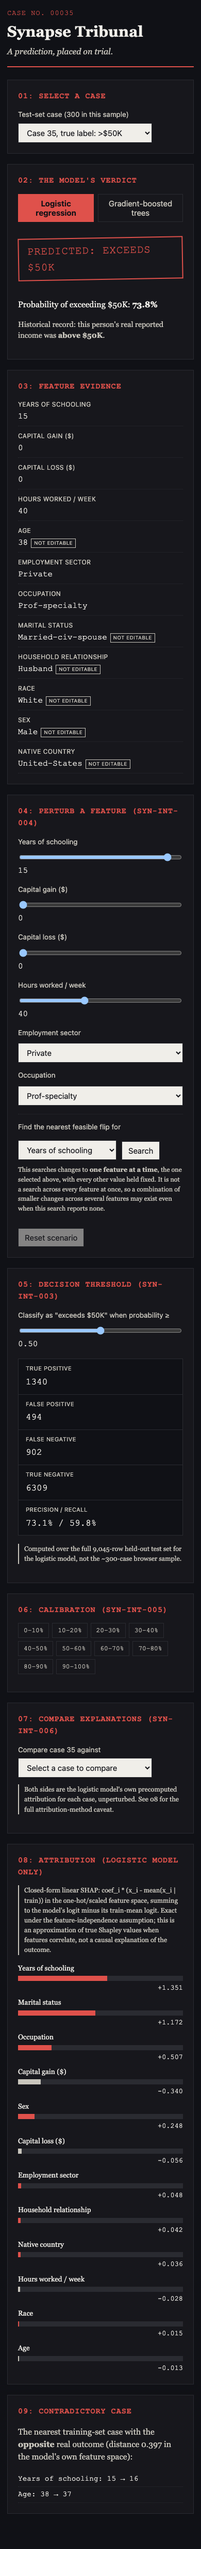
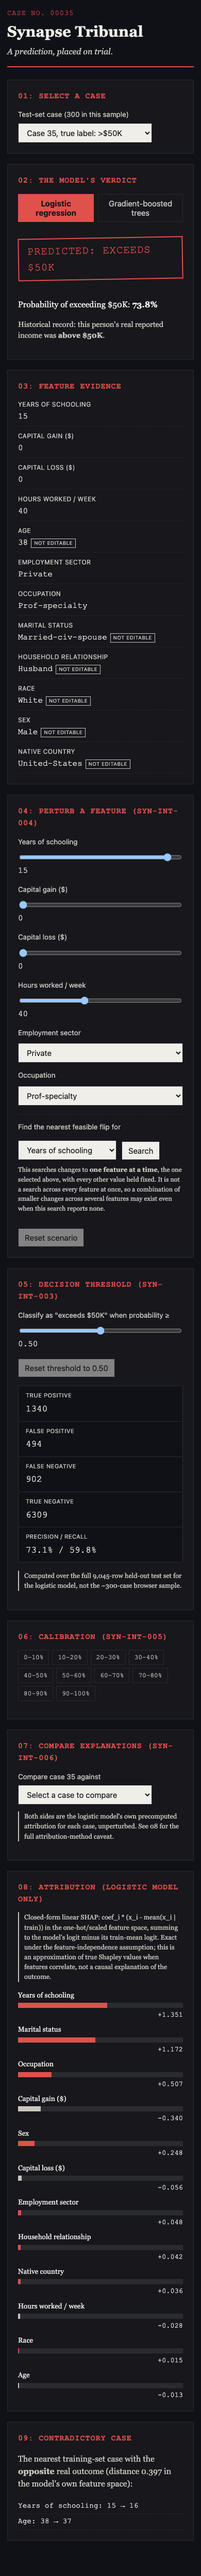
Fix stale flip result on threshold change; add threshold reset; Brier/ROC reconciliation tests
A follow-up advisor pass caught two real bugs and a missing Atlas
validation requirement:

- Changing the threshold left a stale flip-search result on screen
  computed against the OLD threshold (e.g. 'flips at 73.8%' still
  showing after moving the threshold to 90%), misrepresenting the
  current state. Fixed: handleThresholdChange now clears flipResult,
  with a regression test for it in both Tribunal.test.tsx and the
  existing stale-state class of bug this project has fixed before.
- SYN-INT-003 (threshold) had no reset affordance, unlike every other
  control. Added an explicit 'Reset threshold to 0.50' button,
  disabled when already at baseline.
- Added the Atlas's explicitly named 'Brier/ROC reconciliation' tests:
  three new pytest functions recompute AUROC/PR-AUC/Brier, every
  threshold-sweep confusion row, and every calibration bin
  independently from full_test_fixture.json's raw per-row probabilities
  and labels -- not from train.py's own computation -- and assert they
  match the exported manifest/fixture values. This is the test class
  that would catch a real discrepancy between what train.py computed
  and what it claims to have exported, which no existing test checked.

On the renderer question raised in the same pass (whether a persistent
WebGL stage is required): keeping the forensic 2D direction locked in
SPEC_LOCK.md section 2, which was a deliberate, reasoned decision
(Atlas's own 'do not force every element into a perspective-
[…]

diff --git a/src/scenes/Tribunal.tsx b/src/scenes/Tribunal.tsx
@@ -194,6 +194,15 @@ export default function Tribunal() {
     setFlipResult(null)
   }
 
+  function handleThresholdChange(value: number) {
+    setThreshold(Math.round(value * 100) / 100)
+    // A flip result computed against the old threshold would misrepresent the new one
+    // (e.g. "flips at 73.8%" displayed after the threshold moved to 90%) -- stale derived
+    // state is exactly the bug class SYN-INT-003/004 interacting was meant to guard
+    // against, so clear it rather than let it silently go out of sync.
+    setFlipResult(null)
+  }
+
   function handleFindFlip() {
     if (!effectiveRaw || !effectiveFlipTarget) return
     try {
@@ -393,10 +402,18 @@ export default function Tribunal() {
             max={0.99}
             step={0.01}
             value={threshold}
-            onChange={(e) => setThreshold(Math.round(Number(e.target.value) * 100) / 100)}
+            onChange={(e) => handleThresholdChange(Number(e.target.value))}
           />
           <output>{threshold.toFixed(2)}</output>
         </div>
+        <button
+          type="button"
+          className="reset-button"
+          onClick={() => handleThresholdChange(0.5)}
+          disabled={threshold === 0.5}
+        >
+          Reset threshold to 0.50
+        </button>
         {confusionRow && (
           <div className="confusion-grid">
             <div className="confusion-cell">

diff --git a/src/scenes/Tribunal.test.tsx b/src/scenes/Tribunal.test.tsx
@@ -67,6 +67,21 @@ describe('Tribunal scene (SYN-INT-004 vertical slice)', () => {
     expect(result!.textContent).toMatch(/would flip the decision|no single-feature flip found/i)
   })
 
+  it('clears a stale flip result when the threshold changes (regression test)', async () => {
+    render(<Tribunal />)
+    await waitFor(() => expect(screen.getByTestId('tribunal-scene')).toBeInTheDocument())
+
+    fireEvent.click(screen.getByRole('button', { name: /^search$/i }))
+    await waitFor(() => expect(document.querySelector('.flip-result')).toBeTruthy())
+
+    const slider = screen.getByLabelText(/classify as "exceeds \$50k" when probability/i)
+    fireEvent.change(slider, { target: { value: '0.9' } })
+
+    // A flip computed at the old threshold would misrepresent the new one if left on
+    // screen; it must be cleared, not silently stale.
+    await waitFor(() => expect(document.querySelector('.flip-result')).toBeFalsy())
+  })
+
   it('rejects perturbing an immutable feature from the UI (none rendered for them)', async () => {
     render(<Tribunal />)
     await waitFor(() => expect(screen.getByTestId('tribunal-scene')).toBeInTheDocument())

diff --git a/tests/unit/test_reference.py b/tests/unit/test_reference.py
@@ -180,6 +180,59 @@ def test_counterfactual_integer_snap_never_returns_a_fractional_value():
             )
 
 
+def test_auroc_pr_auc_brier_reconcile_independently_from_the_full_test_fixture():
+    """Atlas validation requirement: 'Brier/ROC reconciliation.' Recomputes all three
+    metrics directly from the exported per-row probabilities/labels in
+    full_test_fixture.json (not from sklearn's internal state) and checks they match
+    the manifest's own reported values, for both models."""
+    from sklearn.metrics import average_precision_score, brier_score_loss, roc_auc_score
+
+    labels = [r["label"] for r in FIXTURE["rows"]]
+    for model_key, proba_key in (("logistic", "logistic_proba"), ("boosting", "boosting_proba")):
+        probs = [r[proba_key] for r in FIXTURE["rows"]]
+        recomputed_auroc = roc_auc_score(labels, probs)
+        recomputed_pr_auc = average_precision_score(labels, probs)
+        recomputed_brier = brier_score_loss(labels, probs)
+        manifest_metrics = MANIFEST[model_key]["test_metrics"]
+        assert math.isclose(recomputed_auroc, manifest_metrics["auroc"], abs_tol=1e-3)
+        assert math.isclose(recomputed_pr_auc, manifest_metrics["pr_auc"], abs_tol=1e-3)
+        assert math.isclose(recomputed_brier, manifest_metrics["brier"], abs_tol=1e-3)
+
+
+def test_threshold_sweep_confusion_counts_reconcile_from_the_full_test_fixture():
+    """Recomputes every confusion-matrix row independently from the full test fixture's
+    per-row probabilities, rather than trusting train.py's own confusion_at_threshold."""
+    for model_key, proba_key in (("logistic", "logistic_proba"), ("boosting", "boosting_proba")):
+        rows = FIXTURE["rows"]
+        for exported in SWEEP[model_key][::10]:  # sample every 10th threshold, 100 checks is enough
+            t = exported["threshold"]
+            tp = sum(1 for r in rows if r[proba_key] >= t and r["label"] == 1)
+            fp = sum(1 for r in rows if r[proba_key] >= t and r["label"] == 0)
+            tn = sum(1 for r in rows if r[proba_key] < t and r["label"] == 0)
+            fn = sum(1 for r in rows if r[proba_key] < t and r["label"] == 1)
+            assert (tp, fp, tn, fn) == (exported["tp"], exported["fp"], exported["tn"], exported["fn"]), (
+                f"{model_key} @ threshold={t}: recomputed ({tp},{fp},{tn},{fn}) != "
+                f"exported ({exported['tp']},{exported['fp']},{exported['tn']},{exported['fn']})"
+            )
+
+
+def test_calibration_bins_reconcile_from_the_full_test_fixture():
+    """Recomputes each calibration bin's n/mean_predicted/observed_rate independently
+    from the full test fixture rather than trusting train.py's own bin loop."""
+    for model_key, proba_key in (("logistic", "logistic_proba"), ("boosting", "boosting_proba")):
+        rows = FIXTURE["rows"]
+        for exported in CALIB[model_key]:
+            lo, hi = exported["bin_lo"], exported["bin_hi"]
+            is_last = math.isclose(hi, 1.0)
+            in_bin = [r for r in rows if lo <= r[proba_key] < hi or (is_last and r[proba_key] == hi)]
+            assert len(in_bin) == exported["n"], f"{model_key} bin [{lo},{hi}]: n mismatch"
+            if in_bin:
+                mean_pred = sum(r[proba_key] for r in in_bin) / len(in_bin)
+                observed = sum(r["label"] for r in in_bin) / len(in_bin)
+                assert math.isclose(mean_pred, exported["mean_predicted"], abs_tol=1e-3)
+                assert math.isclose(observed, exported["observed_rate"], abs_tol=1e-3)
+
+
 def test_out_of_domain_numeric_input_does_not_silently_succeed():
     """A value far outside any observed range should still produce a finite probability
     (the model doesn't crash) but must not be presented as a normal in-domain prediction
